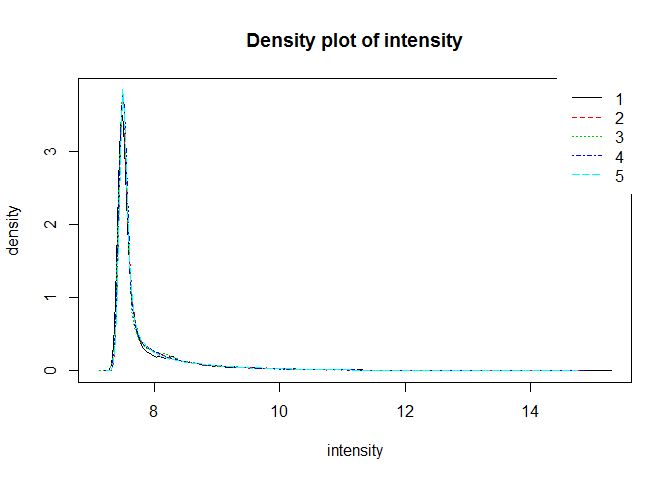
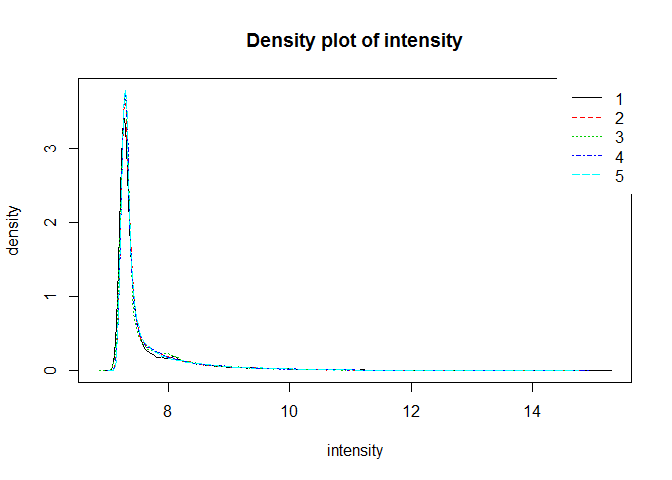
Update code to *actually* do the background adjustment. No change in the results though.

diff --git a/raw-data-analysis.md b/raw-data-analysis.md
@@ -1,39 +1,40 @@
     ## Inputting the data ...
     ## Perform Quality Control assessment of the LumiBatch object ...
 
-SOME PLOTS OF NON NORMALIZED DATA: density plot, cdf plot ![](raw-data-analysis_files/figure-markdown_github/unnamed-chunk-3-1.png) ![](raw-data-analysis_files/figure-markdown_github/unnamed-chunk-3-2.png) ![](raw-data-analysis_files/figure-markdown_github/unnamed-chunk-3-3.png) ![](raw-data-analysis_files/figure-markdown_github/unnamed-chunk-3-4.png)
+SOME PLOTS OF NON NORMALIZED DATA: density plot, cdf plot ![](raw-data-analysis_files/figure-markdown_github/unnamed-chunk-3-1.png)<!-- -->![](raw-data-analysis_files/figure-markdown_github/unnamed-chunk-3-2.png)<!-- -->![](raw-data-analysis_files/figure-markdown_github/unnamed-chunk-3-3.png)<!-- -->![](raw-data-analysis_files/figure-markdown_github/unnamed-chunk-3-4.png)<!-- -->
 
+    ## Perform bgAdjust background correction ...
     ## Perform vst transformation ...
-    ## 2016-01-14 17:11:58 , processing array  1 
-    ## 2016-01-14 17:11:58 , processing array  2 
-    ## 2016-01-14 17:11:59 , processing array  3 
-    ## 2016-01-14 17:11:59 , processing array  4 
-    ## 2016-01-14 17:11:59 , processing array  5 
-    ## 2016-01-14 17:11:59 , processing array  6 
-    ## 2016-01-14 17:11:59 , processing array  7 
-    ## 2016-01-14 17:11:59 , processing array  8 
-    ## 2016-01-14 17:11:59 , processing array  9 
-    ## 2016-01-14 17:11:59 , processing array  10 
-    ## 2016-01-14 17:11:59 , processing array  11 
-    ## 2016-01-14 17:11:59 , processing array  12 
+    ## 2016-03-03 11:21:51 , processing array  1 
+    ## 2016-03-03 11:21:51 , processing array  2 
+    ## 2016-03-03 11:21:51 , processing array  3 
+    ## 2016-03-03 11:21:52 , processing array  4 
+    ## 2016-03-03 11:21:52 , processing array  5 
+    ## 2016-03-03 11:21:52 , processing array  6 
+    ## 2016-03-03 11:21:52 , processing array  7 
+    ## 2016-03-03 11:21:52 , processing array  8 
+    ## 2016-03-03 11:21:52 , processing array  9 
+    ## 2016-03-03 11:21:52 , processing array  10 
+    ## 2016-03-03 11:21:52 , processing array  11 
+    ## 2016-03-03 11:21:52 , processing array  12 
     ## Perform rsn normalization ...
-    ## 2016-01-14 17:12:00 , processing array  1 
-    ## 2016-01-14 17:12:00 , processing array  2 
-    ## 2016-01-14 17:12:00 , processing array  3 
-    ## 2016-01-14 17:12:00 , processing array  4 
-    ## 2016-01-14 17:12:00 , processing array  5 
-    ## 2016-01-14 17:12:00 , processing array  6 
-    ## 2016-01-14 17:12:00 , processing array  7 
-    ## 2016-01-14 17:12:00 , processing array  8 
-    ## 2016-01-14 17:12:00 , processing array  9 
-    ## 2016-01-14 17:12:00 , processing array  10 
-    ## 2016-01-14 17:12:01 , processing array  11 
-    ## 2016-01-14 17:12:01 , processing array  12 
+    ## 2016-03-03 11:21:53 , processing array  1 
+    ## 2016-03-03 11:21:53 , processing array  2 
+    ## 2016-03-03 11:21:53 , processing array  3 
+    ## 2016-03-03 11:21:53 , processing array  4 
+    ## 2016-03-03 11:21:53 , processing array  5 
+    ## 2016-03-03 11:21:54 , processing array  6 
+    ## 2016-03-03 11:21:54 , processing array  7 
+    ## 2016-03-03 11:21:54 , processing array  8 
+    ## 2016-03-03 11:21:54 , processing array  9 
+    ## 2016-03-03 11:21:54 , processing array  10 
+    ## 2016-03-03 11:21:54 , processing array  11 
+    ## 2016-03-03 11:21:54 , processing array  12 
     ## Perform Quality Control assessment of the LumiBatch object ...
 
 PLOTS OF NORMALIZED DATA
 
-![](raw-data-analysis_files/figure-markdown_github/unnamed-chunk-4-1.png) ![](raw-data-analysis_files/figure-markdown_github/unnamed-chunk-4-2.png) ![](raw-data-analysis_files/figure-markdown_github/unnamed-chunk-4-3.png) FILTERING PROBES BASED ON DETECTION Limma suggests to keep probes that are expressed above bg on at least n arrays where n is smallest number of replicates assigned to any of the treatment combinations.
+![](raw-data-analysis_files/figure-markdown_github/unnamed-chunk-4-1.png)<!-- -->![](raw-data-analysis_files/figure-markdown_github/unnamed-chunk-4-2.png)<!-- -->![](raw-data-analysis_files/figure-markdown_github/unnamed-chunk-4-3.png)<!-- --> FILTERING PROBES BASED ON DETECTION Limma suggests to keep probes that are expressed above bg on at least n arrays where n is smallest number of replicates assigned to any of the treatment combinations.
 
 how many probes did we have before and after filtering?
 
@@ -103,20 +104,21 @@ How many probes are up and down regulated for each contrast?
 
     ## Source: local data frame [3 x 3]
     ## 
-    ##    variable down up
-    ## 1 MaxVsCtrl    0  0
-    ## 2 MidVsCtrl    0  0
-    ## 3 MinVsCtrl    0  0
+    ##    variable  down    up
+    ##      (fctr) (int) (int)
+    ## 1 MaxVsCtrl     0     0
+    ## 2 MidVsCtrl     0     0
+    ## 3 MinVsCtrl     0     0
 
-![](raw-data-analysis_files/figure-markdown_github/unnamed-chunk-11-1.png)
+![](raw-data-analysis_files/figure-markdown_github/unnamed-chunk-11-1.png)<!-- -->
 
 Some probes of interest from MTN-007.
 
-![](raw-data-analysis_files/figure-markdown_github/unnamed-chunk-12-1.png)
+![](raw-data-analysis_files/figure-markdown_github/unnamed-chunk-12-1.png)<!-- -->
 
 SessionInfo()
 
-    ## R version 3.2.1 (2015-06-18)
+    ## R version 3.2.3 (2015-12-10)
     ## Platform: x86_64-w64-mingw32/x64 (64-bit)
     ## Running under: Windows 7 x64 (build 7601) Service Pack 1
     ## 
@@ -132,51 +134,51 @@ SessionInfo()
     ## [8] base     
     ## 
     ## other attached packages:
-    ## [1] ggplot2_1.0.1.9003  reshape2_1.4.1      limma_3.24.14      
+    ## [1] ggplot2_2.0.0       reshape2_1.4.1      limma_3.24.14      
     ## [4] lumi_2.20.2         Biobase_2.28.0      BiocGenerics_0.14.0
-    ## [7] dplyr_0.4.2        
+    ## [7] dplyr_0.4.3        
     ## 
     ## loaded via a namespace (and not attached):
-    ##  [1] tidyr_0.2.0             nor1mix_1.2-1          
-    ##  [3] splines_3.2.1           foreach_1.4.2          
+    ##  [1] tidyr_0.4.1             nor1mix_1.2-1          
+    ##  [3] splines_3.2.3           foreach_1.4.3          
     ##  [5] bumphunter_1.8.0        assertthat_0.1         
-    ##  [7] affy_1.46.1             stats4_3.2.1           
+    ##  [7] affy_1.46.1             stats4_3.2.3           
     ##  [9] doRNG_1.6               Rsamtools_1.20.4       
     ## [11] methylumi_2.14.0        yaml_2.1.13            
     ## [13] minfi_1.14.0            RSQLite_1.0.0          
     ## [15] lattice_0.20-33         quadprog_1.5-5         
-    ## [17] digest_0.6.8            GenomicRanges_1.20.5   
+    ## [17] digest_0.6.9            GenomicRanges_1.20.5   
     ## [19] RColorBrewer_1.1-2      XVector_0.8.0          
-    ## [21] colorspace_1.2-6        htmltools_0.2.6        
-    ## [23] preprocessCore_1.30.0   Matrix_1.2-2           
+    ## [21] colorspace_1.2-6        htmltools_0.3          
+    ## [23] preprocessCore_1.30.0   Matrix_1.2-3           
     ## [25] plyr_1.8.3              GEOquery_2.34.0        
     ## [27] siggenes_1.42.0         XML_3.98-1.3           
     ## [29] biomaRt_2.24.0          genefilter_1.50.0      
-    ## [31] zlibbioc_1.14.0         xtable_1.7-4           
-    ## [33] scales_0.2.5.9003       affyio_1.36.0          
-    ## [35] BiocParallel_1.2.14     nleqslv_2.8            
+    ## [31] zlibbioc_1.14.0         xtable_1.8-2           
+    ## [33] scales_0.3.0            affyio_1.36.0          
+    ## [35] BiocParallel_1.2.14     nleqslv_3.0            
     ## [37] annotate_1.46.1         beanplot_1.2           
-    ## [39] pkgmaker_0.22           mgcv_1.8-7             
+    ## [39] pkgmaker_0.22           mgcv_1.8-11            
     ## [41] IRanges_2.2.5           GenomicFeatures_1.20.1 
     ## [43] lazyeval_0.1.10         survival_2.38-3        
-    ## [45] magrittr_1.5            mclust_5.0.2           
-    ## [47] evaluate_0.7.2          nlme_3.1-121           
-    ## [49] MASS_7.3-43             BiocInstaller_1.18.4   
-    ## [51] tools_3.2.1             registry_0.3           
-    ## [53] formatR_1.2             matrixStats_0.14.2     
+    ## [45] magrittr_1.5            mclust_5.1             
+    ## [47] evaluate_0.8            nlme_3.1-124           
+    ## [49] MASS_7.3-45             BiocInstaller_1.18.4   
+    ## [51] tools_3.2.3             registry_0.3           
+    ## [53] formatR_1.2.1           matrixStats_0.50.1     
     ## [55] stringr_1.0.0           S4Vectors_0.6.2        
     ## [57] munsell_0.4.2           locfit_1.5-9.1         
     ## [59] rngtools_1.2.4          AnnotationDbi_1.30.1   
     ## [61] lambda.r_1.1.7          Biostrings_2.36.1      
     ## [63] base64_1.1              GenomeInfoDb_1.4.1     
-    ## [65] futile.logger_1.4.1     grid_3.2.1             
-    ## [67] RCurl_1.95-4.7          iterators_1.0.7        
+    ## [65] futile.logger_1.4.1     grid_3.2.3             
+    ## [67] RCurl_1.95-4.7          iterators_1.0.8        
     ## [69] labeling_0.3            bitops_1.0-6           
-    ## [71] rmarkdown_0.7           gtable_0.1.2           
+    ## [71] rmarkdown_0.9.2         gtable_0.1.2           
     ## [73] codetools_0.2-14        multtest_2.24.0        
     ## [75] DBI_0.3.1               reshape_0.8.5          
-    ## [77] R6_2.1.0                illuminaio_0.10.0      
-    ## [79] GenomicAlignments_1.4.1 knitr_1.11             
+    ## [77] R6_2.1.2                illuminaio_0.10.0      
+    ## [79] GenomicAlignments_1.4.1 knitr_1.12.3           
     ## [81] rtracklayer_1.28.6      futile.options_1.0.0   
-    ## [83] KernSmooth_2.23-15      stringi_0.5-5          
-    ## [85] Rcpp_0.12.1
+    ## [83] KernSmooth_2.23-15      stringi_1.0-1          
+    ## [85] Rcpp_0.12.3

diff --git a/highest-concentration-analysis.md b/highest-concentration-analysis.md
@@ -1,25 +1,26 @@
     ## Inputting the data ...
     ## Perform Quality Control assessment of the LumiBatch object ...
 
-SOME PLOTS OF NON NORMALIZED DATA: density plot, cdf plot ![](highest-concentration-analysis_files/figure-markdown_github/unnamed-chunk-3-1.png) ![](highest-concentration-analysis_files/figure-markdown_github/unnamed-chunk-3-2.png) ![](highest-concentration-analysis_files/figure-markdown_github/unnamed-chunk-3-3.png) ![](highest-concentration-analysis_files/figure-markdown_github/unnamed-chunk-3-4.png)
+SOME PLOTS OF NON NORMALIZED DATA: density plot, cdf plot ![](highest-concentration-analysis_files/figure-markdown_github/unnamed-chunk-3-1.png)<!-- -->![](highest-concentration-analysis_files/figure-markdown_github/unnamed-chunk-3-2.png)<!-- -->![](highest-concentration-analysis_files/figure-markdown_github/unnamed-chunk-3-3.png)<!-- -->![](highest-concentration-analysis_files/figure-markdown_github/unnamed-chunk-3-4.png)<!-- -->
 
+    ## Perform bgAdjust background correction ...
     ## Perform vst transformation ...
-    ## 2016-01-14 17:15:44 , processing array  1 
-    ## 2016-01-14 17:15:44 , processing array  2 
-    ## 2016-01-14 17:15:44 , processing array  3 
-    ## 2016-01-14 17:15:44 , processing array  4 
-    ## 2016-01-14 17:15:44 , processing array  5 
+    ## 2016-03-03 11:27:05 , processing array  1 
+    ## 2016-03-03 11:27:05 , processing array  2 
+    ## 2016-03-03 11:27:05 , processing array  3 
+    ## 2016-03-03 11:27:05 , processing array  4 
+    ## 2016-03-03 11:27:05 , processing array  5 
     ## Perform rsn normalization ...
-    ## 2016-01-14 17:15:45 , processing array  1 
-    ## 2016-01-14 17:15:45 , processing array  2 
-    ## 2016-01-14 17:15:45 , processing array  3 
-    ## 2016-01-14 17:15:45 , processing array  4 
-    ## 2016-01-14 17:15:45 , processing array  5 
+    ## 2016-03-03 11:27:06 , processing array  1 
+    ## 2016-03-03 11:27:06 , processing array  2 
+    ## 2016-03-03 11:27:06 , processing array  3 
+    ## 2016-03-03 11:27:06 , processing array  4 
+    ## 2016-03-03 11:27:07 , processing array  5 
     ## Perform Quality Control assessment of the LumiBatch object ...
 
 PLOTS OF NORMALIZED DATA
 
-![](highest-concentration-analysis_files/figure-markdown_github/unnamed-chunk-4-1.png) ![](highest-concentration-analysis_files/figure-markdown_github/unnamed-chunk-4-2.png) ![](highest-concentration-analysis_files/figure-markdown_github/unnamed-chunk-4-3.png) FILTERING PROBES BASED ON DETECTION Limma suggests to keep probes that are expressed above bg on at least n arrays where n is smallest number of replicates assigned to any of the treatment combinations.
+![](highest-concentration-analysis_files/figure-markdown_github/unnamed-chunk-4-1.png)<!-- -->![](highest-concentration-analysis_files/figure-markdown_github/unnamed-chunk-4-2.png)<!-- -->![](highest-concentration-analysis_files/figure-markdown_github/unnamed-chunk-4-3.png)<!-- --> FILTERING PROBES BASED ON DETECTION Limma suggests to keep probes that are expressed above bg on at least n arrays where n is smallest number of replicates assigned to any of the treatment combinations.
 
 how many probes did we have before and after filtering?
 
@@ -67,18 +68,19 @@ How many probes are up and down regulated for each contrast?
 
     ## Source: local data frame [1 x 3]
     ## 
-    ##    variable down up
-    ## 1 MaxVsCtrl    0  0
+    ##    variable  down    up
+    ##      (fctr) (int) (int)
+    ## 1 MaxVsCtrl     0     0
 
-![](highest-concentration-analysis_files/figure-markdown_github/unnamed-chunk-11-1.png)
+![](highest-concentration-analysis_files/figure-markdown_github/unnamed-chunk-11-1.png)<!-- -->
 
 Some probes of interest from MTN-007.
 
-![](highest-concentration-analysis_files/figure-markdown_github/unnamed-chunk-12-1.png)
+![](highest-concentration-analysis_files/figure-markdown_github/unnamed-chunk-12-1.png)<!-- -->
 
 SessionInfo()
 
-    ## R version 3.2.1 (2015-06-18)
+    ## R version 3.2.3 (2015-12-10)
     ## Platform: x86_64-w64-mingw32/x64 (64-bit)
     ## Running under: Windows 7 x64 (build 7601) Service Pack 1
     ## 
@@ -94,51 +96,51 @@ SessionInfo()
     ## [8] base     
     ## 
     ## other attached packages:
-    ## [1] ggplot2_1.0.1.9003  reshape2_1.4.1      limma_3.24.14      
+    ## [1] ggplot2_2.0.0       reshape2_1.4.1      limma_3.24.14      
     ## [4] lumi_2.20.2         Biobase_2.28.0      BiocGenerics_0.14.0
-    ## [7] dplyr_0.4.2        
+    ## [7] dplyr_0.4.3        
     ## 
     ## loaded via a namespace (and not attached):
-    ##  [1] tidyr_0.2.0             nor1mix_1.2-1          
-    ##  [3] splines_3.2.1           foreach_1.4.2          
+    ##  [1] tidyr_0.4.1             nor1mix_1.2-1          
+    ##  [3] splines_3.2.3           foreach_1.4.3          
     ##  [5] bumphunter_1.8.0        assertthat_0.1         
-    ##  [7] affy_1.46.1             stats4_3.2.1           
+    ##  [7] affy_1.46.1             stats4_3.2.3           
     ##  [9] doRNG_1.6               Rsamtools_1.20.4       
     ## [11] methylumi_2.14.0        yaml_2.1.13            
     ## [13] minfi_1.14.0            RSQLite_1.0.0          
     ## [15] lattice_0.20-33         quadprog_1.5-5         
-    ## [17] digest_0.6.8            GenomicRanges_1.20.5   
+    ## [17] digest_0.6.9            GenomicRanges_1.20.5   
     ## [19] RColorBrewer_1.1-2      XVector_0.8.0          
-    ## [21] colorspace_1.2-6        htmltools_0.2.6        
-    ## [23] preprocessCore_1.30.0   Matrix_1.2-2           
+    ## [21] colorspace_1.2-6        htmltools_0.3          
+    ## [23] preprocessCore_1.30.0   Matrix_1.2-3           
     ## [25] plyr_1.8.3              GEOquery_2.34.0        
     ## [27] siggenes_1.42.0         XML_3.98-1.3           
     ## [29] biomaRt_2.24.0          genefilter_1.50.0      
-    ## [31] zlibbioc_1.14.0         xtable_1.7-4           
-    ## [33] scales_0.2.5.9003       affyio_1.36.0          
-    ## [35] BiocParallel_1.2.14     nleqslv_2.8            
+    ## [31] zlibbioc_1.14.0         xtable_1.8-2           
+    ## [33] scales_0.3.0            affyio_1.36.0          
+    ## [35] BiocParallel_1.2.14     nleqslv_3.0            
     ## [37] annotate_1.46.1         beanplot_1.2           
-    ## [39] pkgmaker_0.22           mgcv_1.8-7             
+    ## [39] pkgmaker_0.22           mgcv_1.8-11            
     ## [41] IRanges_2.2.5           GenomicFeatures_1.20.1 
     ## [43] lazyeval_0.1.10         survival_2.38-3        
-    ## [45] magrittr_1.5            mclust_5.0.2           
-    ## [47] evaluate_0.7.2          nlme_3.1-121           
-    ## [49] MASS_7.3-43             BiocInstaller_1.18.4   
-    ## [51] tools_3.2.1             registry_0.3           
-    ## [53] formatR_1.2             matrixStats_0.14.2     
+    ## [45] magrittr_1.5            mclust_5.1             
+    ## [47] evaluate_0.8            nlme_3.1-124           
+    ## [49] MASS_7.3-45             BiocInstaller_1.18.4   
+    ## [51] tools_3.2.3             registry_0.3           
+    ## [53] formatR_1.2.1           matrixStats_0.50.1     
     ## [55] stringr_1.0.0           S4Vectors_0.6.2        
     ## [57] munsell_0.4.2           locfit_1.5-9.1         
     ## [59] rngtools_1.2.4          AnnotationDbi_1.30.1   
     ## [61] lambda.r_1.1.7          Biostrings_2.36.1      
     ## [63] base64_1.1              GenomeInfoDb_1.4.1     
-    ## [65] futile.logger_1.4.1     grid_3.2.1             
-    ## [67] RCurl_1.95-4.7          iterators_1.0.7        
+    ## [65] futile.logger_1.4.1     grid_3.2.3             
+    ## [67] RCurl_1.95-4.7          iterators_1.0.8        
     ## [69] labeling_0.3            bitops_1.0-6           
-    ## [71] rmarkdown_0.7           gtable_0.1.2           
+    ## [71] rmarkdown_0.9.2         gtable_0.1.2           
     ## [73] codetools_0.2-14        multtest_2.24.0        
     ## [75] DBI_0.3.1               reshape_0.8.5          
-    ## [77] R6_2.1.0                illuminaio_0.10.0      
-    ## [79] GenomicAlignments_1.4.1 knitr_1.11             
+    ## [77] R6_2.1.2                illuminaio_0.10.0      
+    ## [79] GenomicAlignments_1.4.1 knitr_1.12.3           
     ## [81] rtracklayer_1.28.6      futile.options_1.0.0   
-    ## [83] KernSmooth_2.23-15      stringi_0.5-5          
-    ## [85] Rcpp_0.12.1
+    ## [83] KernSmooth_2.23-15      stringi_1.0-1          
+    ## [85] Rcpp_0.12.3
